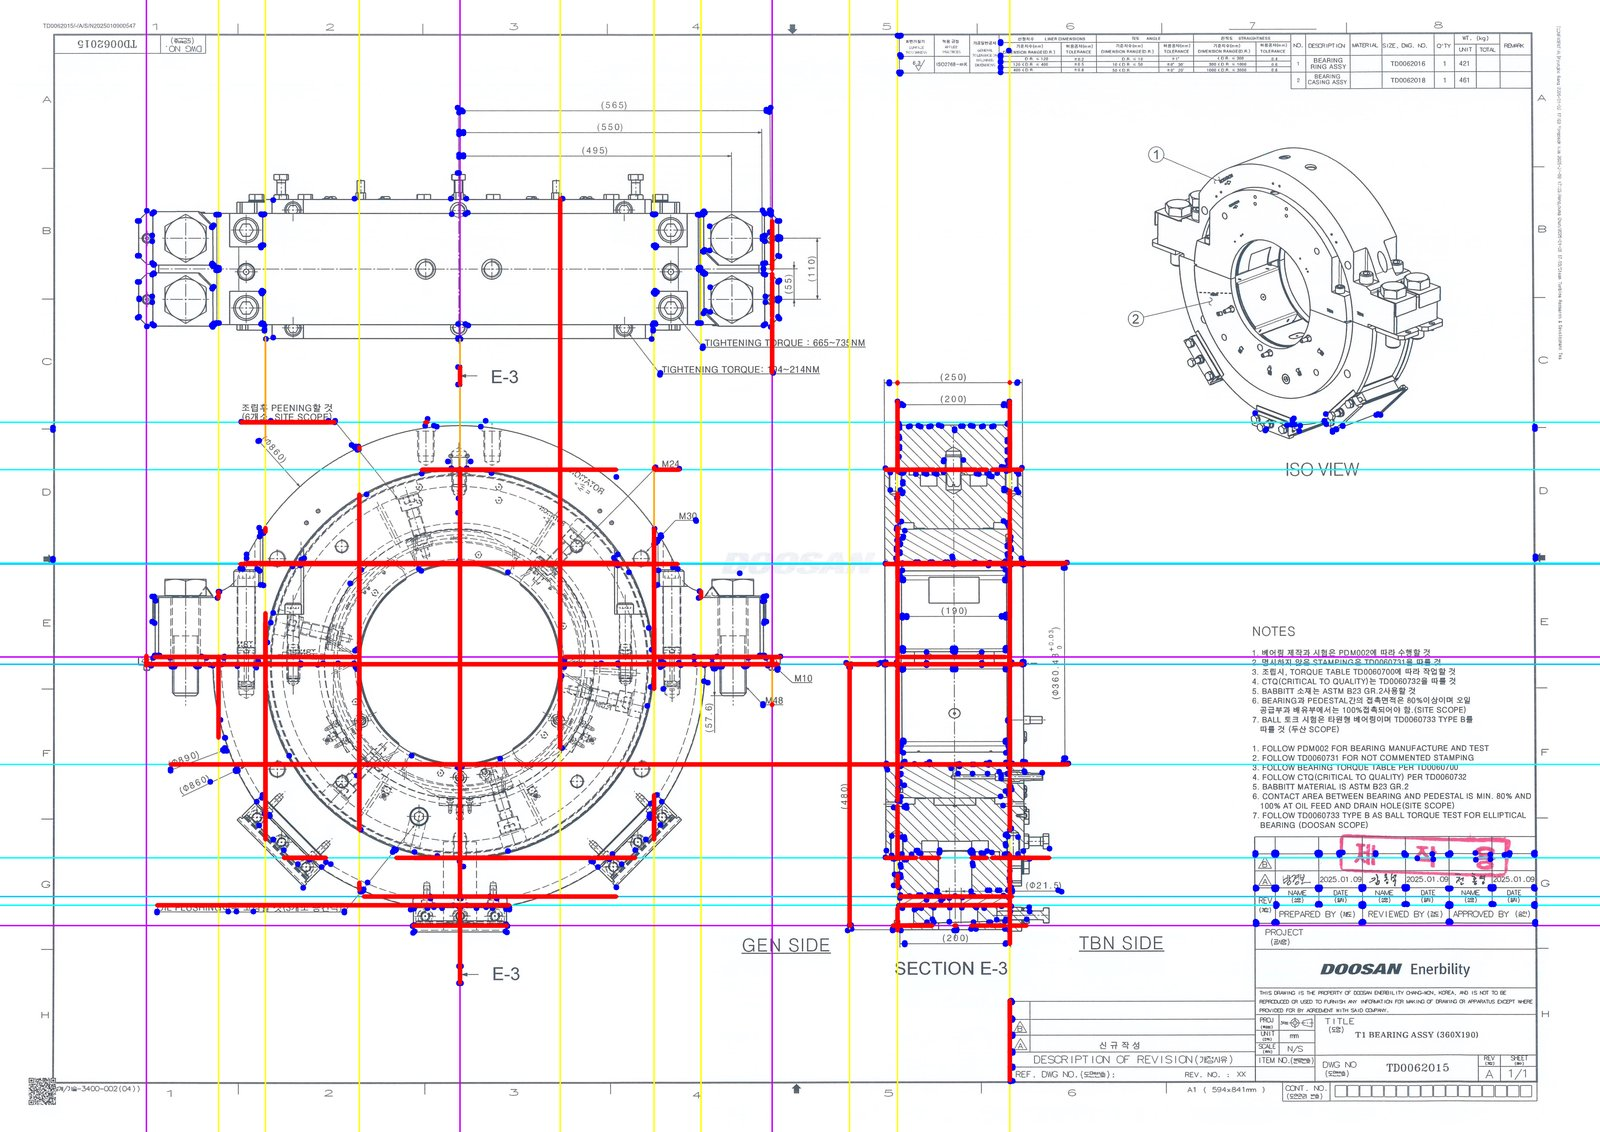
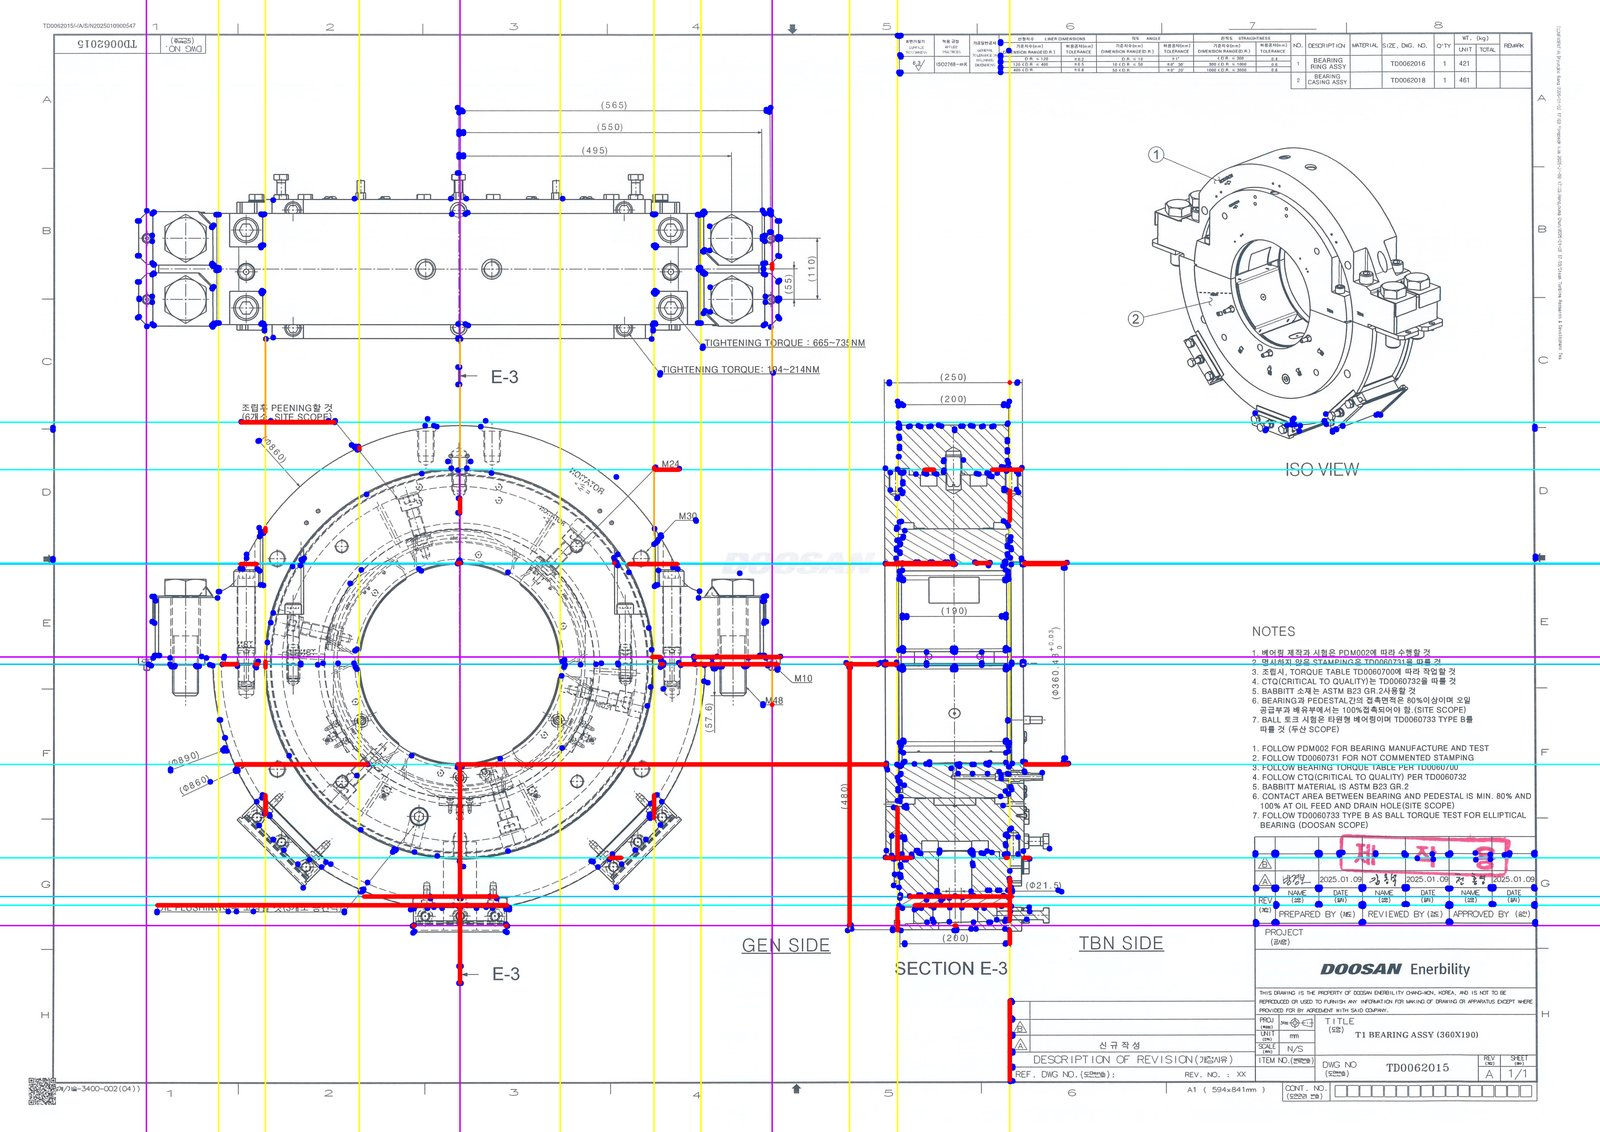
Improve Cardinal v3 structural line filtering

diff --git a/blueprint-ai-bom/scripts/s08_cardinal_v3_ocr.py b/blueprint-ai-bom/scripts/s08_cardinal_v3_ocr.py
@@ -65,6 +65,10 @@ PIXEL_SCAN_DARK_THRESHOLD = 128
 PIXEL_SCAN_DARK_RATIO_MIN = 0.15
 LINE_DETECTOR_ALIGNMENT_TOLERANCE = 30.0
 LINE_DETECTOR_OVERLAP_RATIO_MIN = 0.30
+STRUCTURE_LINE_LENGTH_RATIO = 0.40
+CONCENTRIC_CENTER_DISTANCE_RATIO = 0.30
+EXCLUDED_VALIDATION_LINE_STYLES = {"dash_dot", "dashed"}
+EXCLUDED_VALIDATION_SIGNAL_TYPES = {"centerline"}
 
 HYBRID_CONFIRMED_COLOR = (0, 0, 255)
 HYBRID_CONFIRMED_THICKNESS = 7
@@ -167,9 +171,9 @@ def run_line_detector(image_path: Path) -> list[dict[str, Any]]:
                 "profile": "simple",
                 "method": "lsd",
                 "merge_lines": "true",
-                "classify_types": "false",
+                "classify_types": "true",
                 "classify_colors": "false",
-                "classify_styles": "false",
+                "classify_styles": "true",
                 "find_intersections": "false",
                 "detect_regions": "false",
                 "visualize": "false",
@@ -645,6 +649,37 @@ def build_line_detector_spans(
     return spans
 
 
+def normalize_line_detector_label(value: Any) -> str:
+    return str(value or "").strip().lower()
+
+
+def blocked_line_detector_reasons(line: dict[str, Any]) -> list[str]:
+    reasons: list[str] = []
+    line_style = normalize_line_detector_label(line.get("line_style"))
+    signal_type = normalize_line_detector_label(line.get("signal_type"))
+    if line_style in EXCLUDED_VALIDATION_LINE_STYLES:
+        reasons.append(f"line_style:{line_style}")
+    if signal_type in EXCLUDED_VALIDATION_SIGNAL_TYPES:
+        reasons.append(f"signal_type:{signal_type}")
+    return reasons
+
+
+def split_line_detector_lines(
+    line_detector_lines: list[dict[str, Any]],
+) -> tuple[list[dict[str, Any]], list[dict[str, Any]]]:
+    allowed_lines: list[dict[str, Any]] = []
+    blocked_lines: list[dict[str, Any]] = []
+
+    for line in line_detector_lines:
+        reasons = blocked_line_detector_reasons(line)
+        if reasons:
+            blocked_lines.append({**line, "_blocked_reasons": reasons})
+            continue
+        allowed_lines.append(line)
+
+    return allowed_lines, blocked_lines
+
+
 def merge_spans(
     spans: list[tuple[float, float]],
 ) -> list[tuple[float, float]]:
@@ -697,15 +732,83 @@ def compute_line_detector_overlap(
     return overlap_length / pair_length, sorted(supporting_line_ids)
 
 
+def exceeds_structure_length_limit(
+    pair_line: dict[str, Any],
+    image_shape: tuple[int, int] | tuple[int, int, int],
+) -> bool:
+    height, width = image_shape[:2]
+    axis = str(pair_line["projection_alignment"]["axis"])
+    length_limit = (width if axis == "h" else height) * STRUCTURE_LINE_LENGTH_RATIO
+    return float(pair_line.get("length", 0.0)) >= length_limit
+
+
+def crosses_concentric_centerline(
+    pair_line: dict[str, Any],
+    center_full: tuple[float, float] | None,
+    outer_r: float | None,
+) -> bool:
+    if center_full is None or outer_r is None or outer_r <= 0:
+        return False
+
+    center_x = float(center_full[0])
+    center_y = float(center_full[1])
+    axis = str(pair_line["projection_alignment"]["axis"])
+    start_point = pair_line["start_point_xy"]
+    end_point = pair_line["end_point_xy"]
+
+    if axis == "h":
+        span_start = min(float(start_point[0]), float(end_point[0]))
+        span_end = max(float(start_point[0]), float(end_point[0]))
+        if not span_start <= center_x <= span_end:
+            return False
+        perpendicular_distance = abs(float(pair_line["midpoint"][1]) - center_y)
+    else:
+        span_start = min(float(start_point[1]), float(end_point[1]))
+        span_end = max(float(start_point[1]), float(end_point[1]))
+        if not span_start <= center_y <= span_end:
+            return False
+        perpendicular_distance = abs(float(pair_line["midpoint"][0]) - center_x)
+
+    return perpendicular_distance < float(outer_r) * CONCENTRIC_CENTER_DISTANCE_RATIO
+
+
 def validate_pixel_connections_with_line_detector(
     pixel_candidate_lines: list[dict[str, Any]],
     line_detector_lines: list[dict[str, Any]],
-) -> tuple[list[dict[str, Any]], list[dict[str, Any]]]:
-    line_detector_spans = build_line_detector_spans(line_detector_lines)
+    image_shape: tuple[int, int] | tuple[int, int, int],
+    center_full: tuple[float, float] | None = None,
+    outer_r: float | None = None,
+) -> tuple[list[dict[str, Any]], list[dict[str, Any]], list[dict[str, Any]]]:
+    allowed_detector_lines, blocked_detector_lines = split_line_detector_lines(line_detector_lines)
+    line_detector_spans = build_line_detector_spans(allowed_detector_lines)
+    blocked_detector_spans = build_line_detector_spans(blocked_detector_lines)
     confirmed_lines: list[dict[str, Any]] = []
     pixel_only_lines: list[dict[str, Any]] = []
+    filtered_out_lines: list[dict[str, Any]] = []
 
     for candidate_line in pixel_candidate_lines:
+        blocked_overlap_ratio, blocked_supporting_ids = compute_line_detector_overlap(
+            candidate_line,
+            blocked_detector_spans,
+        )
+        filter_reasons: list[str] = []
+        if blocked_overlap_ratio >= LINE_DETECTOR_OVERLAP_RATIO_MIN:
+            filter_reasons.append("line_detector_blocked_style")
+        if exceeds_structure_length_limit(candidate_line, image_shape):
+            filter_reasons.append("structure_length")
+        if crosses_concentric_centerline(candidate_line, center_full, outer_r):
+            filter_reasons.append("concentric_centerline")
+        if filter_reasons:
+            filtered_out_lines.append(
+                {
+                    **candidate_line,
+                    "filter_reasons": filter_reasons,
+                    "blocked_overlap_ratio": blocked_overlap_ratio,
+                    "blocked_supporting_ids": blocked_supporting_ids,
+                }
+            )
+            continue
+
         overlap_ratio, supporting_line_ids = compute_line_detector_overlap(
             candidate_line,
             line_detector_spans,
@@ -714,13 +817,19 @@ def validate_pixel_connections_with_line_detector(
             **candidate_line,
             "line_detector_overlap_ratio": overlap_ratio,
             "line_detector_supporting_ids": supporting_line_ids,
+            "blocked_overlap_ratio": blocked_overlap_ratio,
+            "blocked_supporting_ids": blocked_supporting_ids,
         }
         if overlap_ratio >= LINE_DETECTOR_OVERLAP_RATIO_MIN:
             confirmed_lines.append(enriched_line)
             continue
         pixel_only_lines.append(enriched_line)
 
-    return dedupe_lines(confirmed_lines), dedupe_lines(pixel_only_lines)
+    return (
+        dedupe_lines(confirmed_lines),
+        dedupe_lines(pixel_only_lines),
+        dedupe_lines(filtered_out_lines),
+    )
 
 
 def bbox_center(bbox: list[list[float]]) -> tuple[float, float] | None:
@@ -1056,16 +1165,20 @@ def run() -> None:
             focus_regions,
         )
         line_detector_lines = run_line_detector(image_path)
-        connected_lines, pixel_only_lines = validate_pixel_connections_with_line_detector(
+        connected_lines, pixel_only_lines, filtered_out_lines = validate_pixel_connections_with_line_detector(
             pixel_candidate_lines,
             line_detector_lines,
+            image.shape,
+            center_full=data["center_full"],
+            outer_r=data["outer_r"],
         )
         pair_lines = list(connected_lines)
         print(
             f"  pixel_candidates={len(pixel_candidate_lines)} | "
             f"line_detector_lines={len(line_detector_lines)} | "
             f"hybrid_confirmed={len(connected_lines)} | "
-            f"pixel_only={len(pixel_only_lines)}"
+            f"pixel_only={len(pixel_only_lines)} | "
+            f"filtered_out={len(filtered_out_lines)}"
         )
 
         ocr_detections: list[dict[str, Any]] = []
